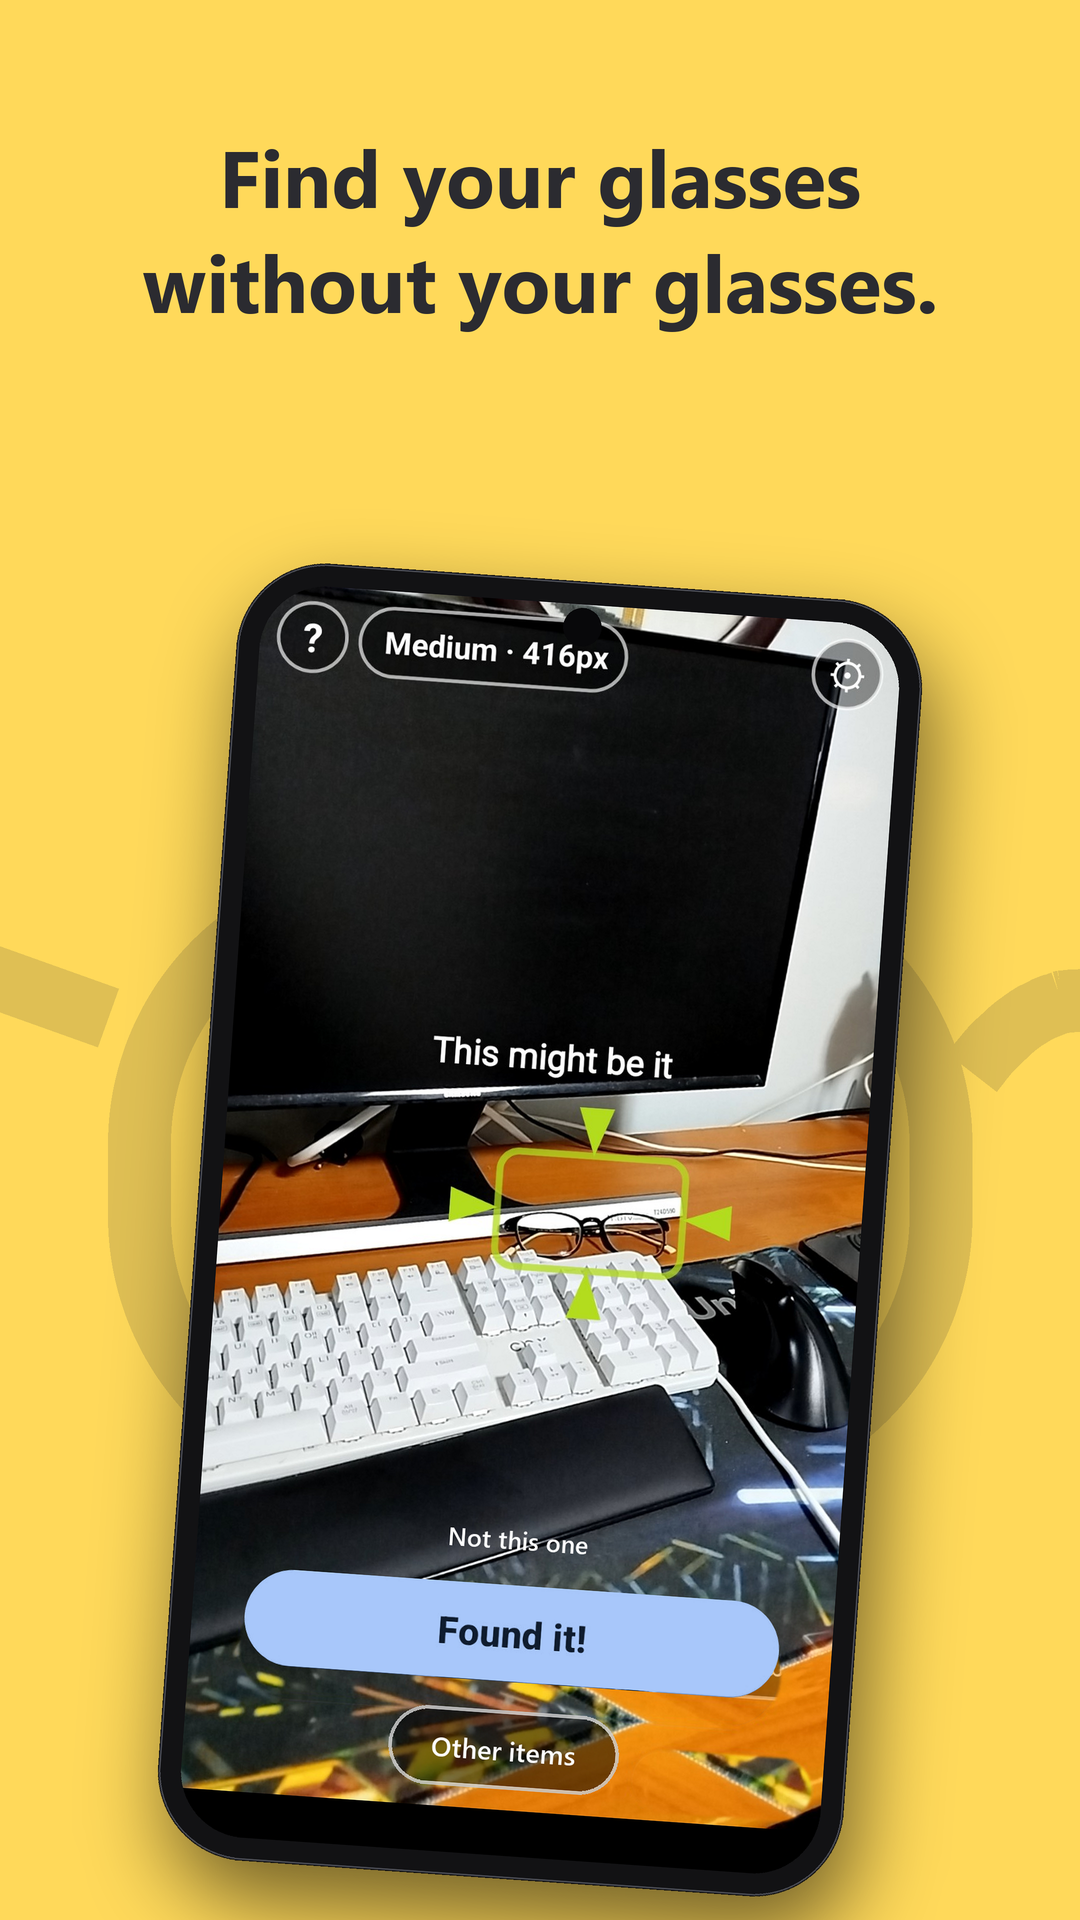
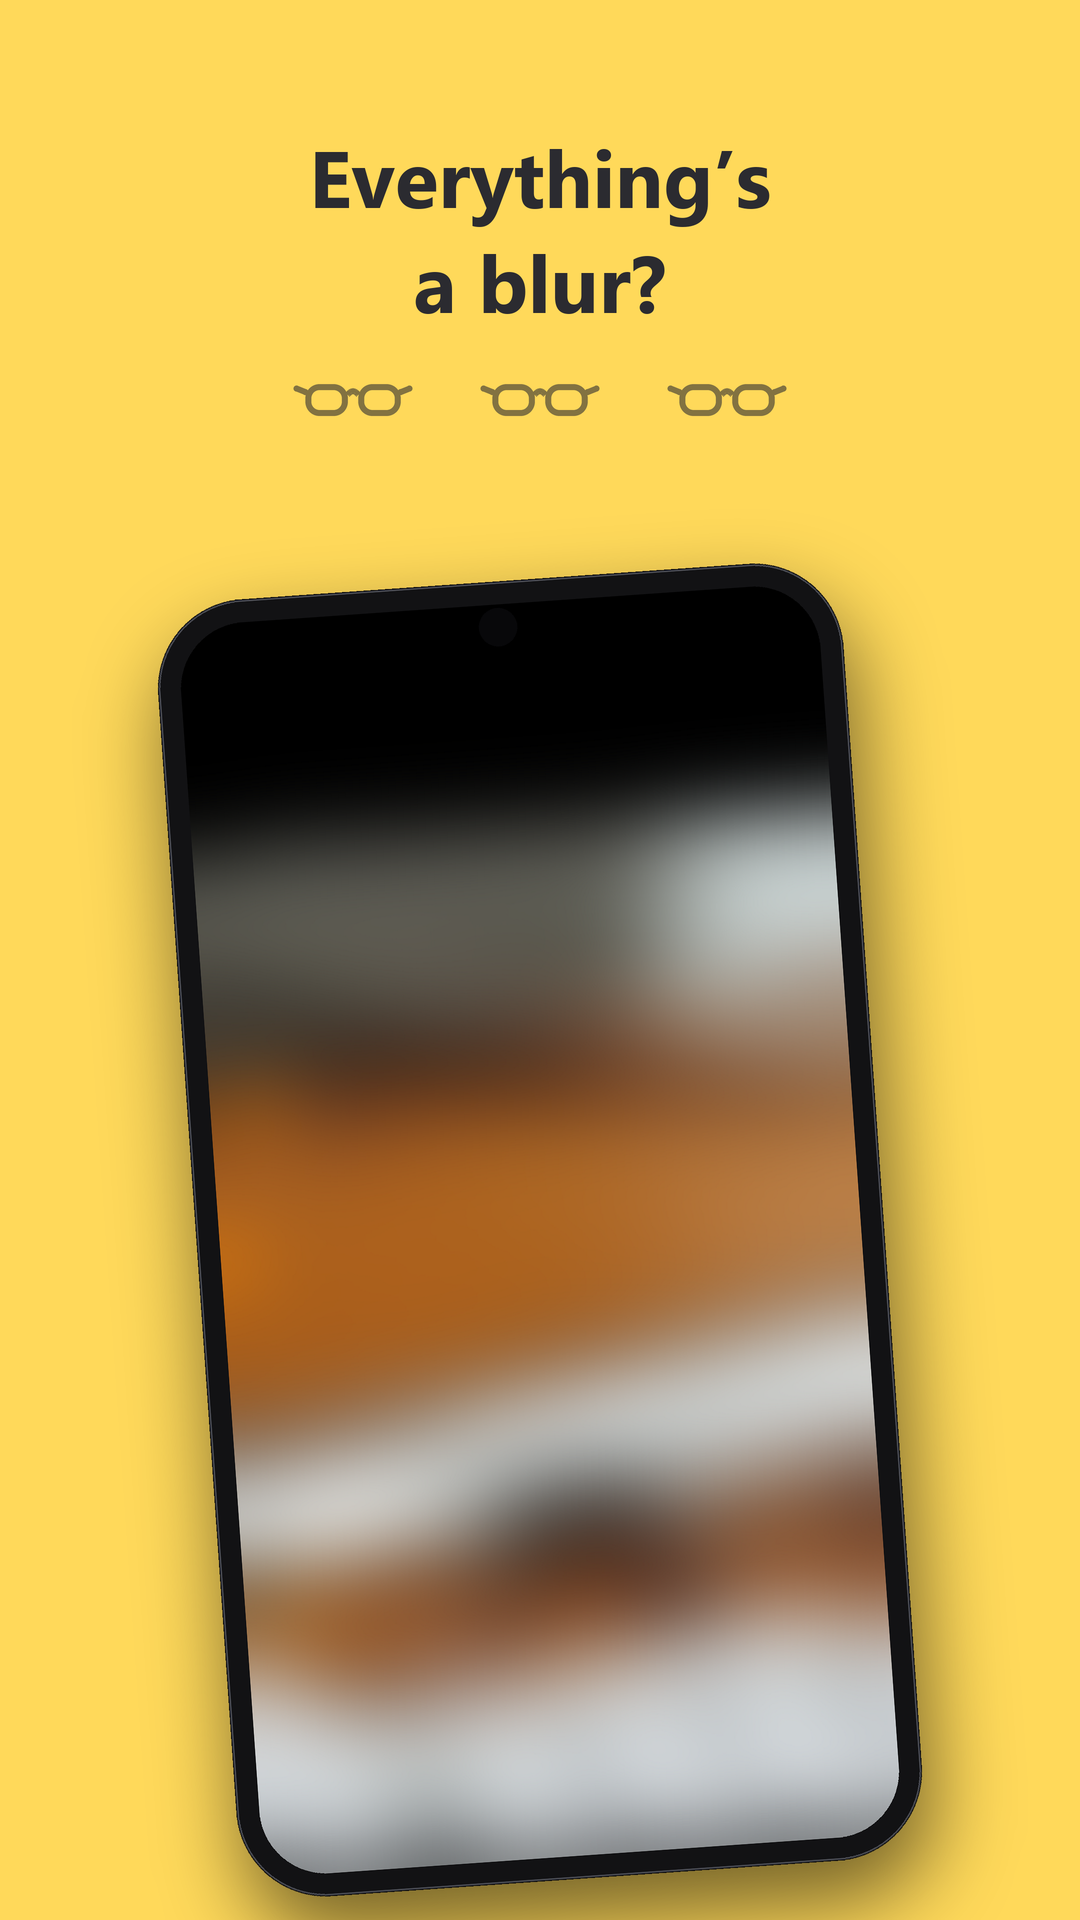
Store screenshots, yellow theme: blurred first tile, glasses ornament row, no black band under the search phone

diff --git a/poc/scripts/render_store_yellow.py b/poc/scripts/render_store_yellow.py
@@ -1,16 +1,19 @@
-"""스토어 스크린샷 (노랑 테마) — 1080x1920 두 장.
+"""스토어 스크린샷 (노랑 테마) — 1080x1920 세 장.
 
-아이콘과 같은 노랑 배경 + 먹색 글자. 배경에 아이콘의 안경을 크게 옅게 깔아
-왼쪽 알은 1장, 오른쪽 알은 2장 뒤에 오게 한다 (나란히 보면 안경 하나로 이어진다).
-문구는 짧게, 스토어 설명글에서 가져온다 (첫 문장 / 폭죽 문장).
+1 흐릿함 (안경 없이 보는 세상) → 2 찾는 화면 → 3 폭죽.
+
+아이콘과 같은 노랑 배경 + 먹색 글자. 제목 아래에 아이콘의 안경 세 개를 한 줄로 둔다
+(장식. 폰·글자·경계에 걸리지 않는다).
+문구는 짧게.
 
     uv run python scripts/render_store_yellow.py
 """
 from __future__ import annotations
 
-from pathlib import Path
+import math
+import random
 
-from PIL import Image, ImageDraw, ImageFont
+from PIL import Image, ImageDraw, ImageFilter, ImageFont
 
 from render_store_marketing import REL, SS, phone, place, screen
 
@@ -20,60 +23,109 @@ INK = (43, 43, 48)
 FB = r"C:\Windows\Fonts\segoeuib.ttf"
 
 TILES = [
-    # (화면, 문구, 폰 기울기)
+    # (화면, 문구, 폰 기울기). "blur" 는 찾은 사진을 크게 오려 심하게 흐린 화면.
+    ("blur", ("Everything’s", "a blur?"), 4.0),
     ("screenshot-2-search.png", ("Find your glasses", "without your glasses."), -4.0),
-    ("screenshot-1-found.png", ("Your camera app", "won’t set off fireworks."), 4.0),
+    ("screenshot-1-found.png", ("Found them?", "Fireworks."), 4.0),
 ]
+PHONE_H = 1300
+PHONE_Y = 1230
+TEXT_Y = (175, 280)
+ORNAMENT_Y = 400        # 제목과 폰 사이
+N = len(TILES)
+
+random.seed(21)
 
 
-def glasses(canvas: Image.Image):
-    """아이콘의 안경 (108 격자 좌표) 을 알 가운데가 두 장의 가운데에 오게 크게 그린다."""
-    k = W * SS / 30.0                         # 두 알 가운데 사이 30 단위 = 1080px
-    ox = W * SS / 2 - 39 * k                  # 왼쪽 알 가운데 (x=39) → 1장 가운데
-    oy = 1180 * SS - 54.5 * k                 # 알 가운데 높이 (y=54.5)
-    stroke = int(3.2 * k * 0.55)
-    col = INK + (38,)
-    lay = Image.new("RGBA", canvas.size, (0, 0, 0, 0))
-    d = ImageDraw.Draw(lay)
+def glasses_sprite(width: int, color) -> Image.Image:
+    """아이콘의 안경 (108 격자, x 20~88 / y 44~65) 을 폭 width 로 그린 조각."""
+    k = width / 68.0
+    pad = int(6 * k)
+    w, h = int(68 * k) + 2 * pad, int(21 * k) + 2 * pad
+    big = Image.new("RGBA", (w * 4, h * 4), (0, 0, 0, 0))
+    d = ImageDraw.Draw(big)
+    s = 4 * k
+    stroke = max(2, int(3.4 * s))
 
     def P(x, y):
-        return ox + x * k, oy + y * k
+        return (x - 20) * s + pad * 4, (y - 44) * s + pad * 4
 
     for x0 in (27, 57):
-        d.rounded_rectangle([*P(x0, 45.5), *P(x0 + 24, 63.5)], radius=8 * k, outline=col, width=stroke)
-    # 브릿지 (2차 곡선)
+        d.rounded_rectangle([*P(x0, 45.5), *P(x0 + 24, 63.5)], radius=8 * s, outline=color, width=stroke)
     pts = []
     for i in range(25):
         t = i / 24
-        x = (1 - t) ** 2 * 51 + 2 * (1 - t) * t * 54 + t ** 2 * 57
-        y = (1 - t) ** 2 * 51.5 + 2 * (1 - t) * t * 47.5 + t ** 2 * 51.5
-        pts.append(P(x, y))
-    d.line(pts, fill=col, width=stroke, joint="curve")
-    # 다리
-    d.line([P(27, 50), P(20, 47.5)], fill=col, width=stroke)
-    d.line([P(81, 50), P(88, 47.5)], fill=col, width=stroke)
-    canvas.alpha_composite(lay)
+        pts.append(P((1 - t) ** 2 * 51 + 2 * (1 - t) * t * 54 + t ** 2 * 57,
+                     (1 - t) ** 2 * 51.5 + 2 * (1 - t) * t * 47.5 + t ** 2 * 51.5))
+    d.line(pts, fill=color, width=stroke, joint="curve")
+    for a, b in (((27, 50), (22, 48)), ((81, 50), (86, 48))):
+        d.line([P(*a), P(*b)], fill=color, width=stroke)
+        for q in (a, b):   # 둥근 끝
+            x, y = P(*q)
+            d.ellipse([x - stroke / 2, y - stroke / 2, x + stroke / 2, y + stroke / 2], fill=color)
+    return big.resize((w, h), Image.LANCZOS)
+
+
+def blur_screen() -> Image.Image:
+    """찾았어요 화면 속 사진(안경이 있는 책상)만 오려 화면 가득 키우고 알아볼 수 없게 흐린다."""
+    found = Image.open(REL / "screenshot-1-found.png").convert("RGB")
+    photo = found.crop((90, 700, 810, 1128))          # 테두리 안 사진 부분
+    tw, th = 900, 1760
+    s = max(tw / photo.width, th / photo.height)
+    big = photo.resize((int(photo.width * s), int(photo.height * s)), Image.LANCZOS)
+    x = (big.width - tw) // 2
+    big = big.crop((x, 0, x + tw, th))
+    return big.filter(ImageFilter.GaussianBlur(55))
+
+
+def screen_for(name: str) -> Image.Image:
+    return blur_screen() if name == "blur" else screen(name)
 
 
 def main() -> None:
-    PW, PH = W * 2 * SS, H * SS
+    PW, PH = W * N * SS, H * SS
     canvas = Image.new("RGBA", (PW, PH), YELLOW + (255,))
-    glasses(canvas)
+
+    # 폰은 따로 그려 두고, 폰이 차지한 자리를 안경이 피하게 한다
+    phones = Image.new("RGBA", (PW, PH), (0, 0, 0, 0))
+    for i, (name, _, ang) in enumerate(TILES):
+        place(phones, phone(screen_for(name), PHONE_H * SS), (i * W + W // 2) * SS, PHONE_Y * SS, ang)
+    busy = phones.split()[3].point(lambda a: 255 if a > 20 else 0).filter(ImageFilter.MaxFilter(61))
 
     f = ImageFont.truetype(FB, 80 * SS)
-    d = ImageDraw.Draw(canvas)
-    for i, (name, (l1, l2), ang) in enumerate(TILES):
+    d_busy = ImageDraw.Draw(busy)
+    for i, (_, (l1, l2), _) in enumerate(TILES):
         cx = (i * W + W // 2) * SS
-        place(canvas, phone(screen(name), 1300 * SS), cx, 1230 * SS, ang)
-        d.text((cx, 175 * SS), l1, font=f, fill=INK, anchor="mm")
-        d.text((cx, 280 * SS), l2, font=f, fill=INK, anchor="mm")
+        for line, y in zip((l1, l2), TEXT_Y):
+            x0, y0, x1, y1 = ImageDraw.Draw(canvas).textbbox((cx, y * SS), line, font=f, anchor="mm")
+            d_busy.rectangle([x0 - 40 * SS, y0 - 40 * SS, x1 + 40 * SS, y1 + 40 * SS], fill=255)
 
-    full = canvas.convert("RGB").resize((W * 2, H), Image.LANCZOS)
+    # 안경 장식 — 장마다 제목 아래에 같은 크기 세 개를 한 줄로 가지런히 (세 장 모두 같은 자리)
+    gw, gap, gy = 120 * SS, 46 * SS, ORNAMENT_Y * SS
+    spr = glasses_sprite(gw, INK + (150,))
+    placed = []
+    for i in range(N):
+        cx = (i * W + W // 2) * SS
+        total = 3 * spr.width + 2 * gap
+        x = cx - total // 2
+        for j in range(3):
+            canvas.alpha_composite(spr, (x + j * (spr.width + gap), gy - spr.height // 2))
+            placed.append((i, j))
+
+    canvas.alpha_composite(phones)
+    d = ImageDraw.Draw(canvas)
+    for i, (_, (l1, l2), _) in enumerate(TILES):
+        cx = (i * W + W // 2) * SS
+        d.text((cx, TEXT_Y[0] * SS), l1, font=f, fill=INK, anchor="mm")
+        d.text((cx, TEXT_Y[1] * SS), l2, font=f, fill=INK, anchor="mm")
+
+    full = canvas.convert("RGB").resize((W * N, H), Image.LANCZOS)
     full.save(REL / "store-yellow-spread.png")
-    for i in range(2):
+    for i in range(N):
         p = REL / f"store-yellow-{i + 1}.png"
         full.crop((i * W, 0, (i + 1) * W, H)).save(p)
         print(p)
+    print("glasses placed:", len(placed))
 
 
 if __name__ == "__main__":

diff --git a/poc/scripts/render_store_marketing.py b/poc/scripts/render_store_marketing.py
@@ -37,8 +37,18 @@ def screen(name: str) -> Image.Image:
     """두 화면의 비율을 맞춘다 (900x1760). 짧은 쪽은 아래를 검게 채운다 (내비게이션 자리)."""
     im = Image.open(REL / name).convert("RGB")
     if im.height < 1760:
-        pad = Image.new("RGB", (900, 1760), (0, 0, 0))
+        # 검게 채우면 폰 아래에 띠가 생긴다. 맨 아래 버튼 밑 바닥 줄(26px)만 거울로
+        # 번갈아 이어 붙인다. 버튼까지 비추면 거꾸로 된 버튼이 보인다.
+        extra = 1760 - im.height
+        band = im.crop((0, im.height - 26, 900, im.height))
+        flip = band.transpose(Image.FLIP_TOP_BOTTOM)
+        pad = Image.new("RGB", (900, 1760))
         pad.paste(im, (0, 0))
+        y, k = im.height, 0
+        while y < 1760:
+            pad.paste(flip if k % 2 == 0 else band, (0, y))
+            y += band.height
+            k += 1
         im = pad
     return im
 
